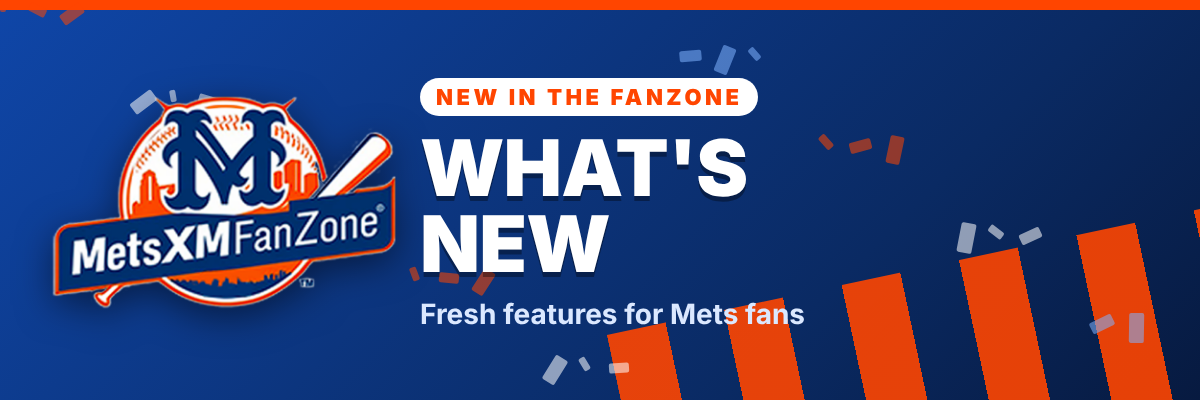
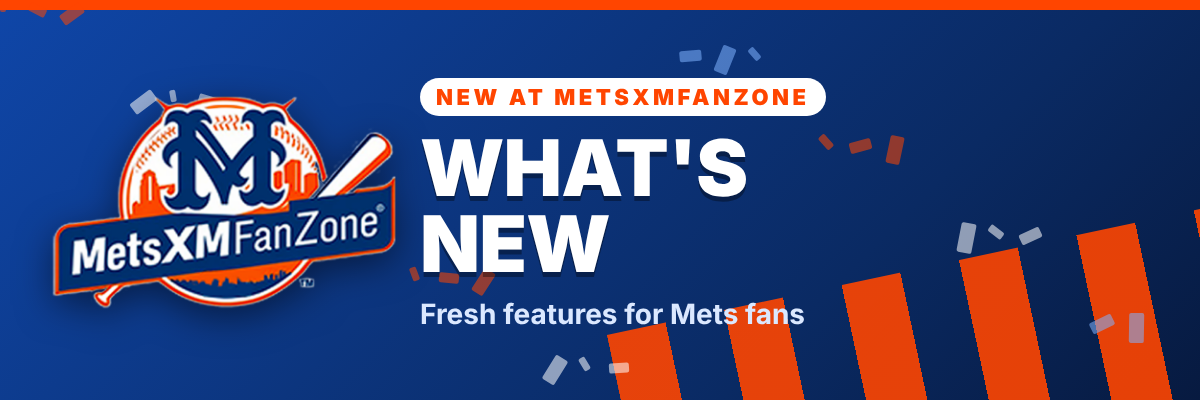
Newsletters: say MetsXMFanZone instead of the FanZone
Claude-Session: https://claude.ai/code/session_015zeFQkBZSqyiHEtssQoaph

Changed region(s): [[0.4008, 0.18, 0.7092, 0.3]]

diff --git a/api/_lib/newsletter-templates.js b/api/_lib/newsletter-templates.js
@@ -118,7 +118,7 @@ ${f.url ? `<div style="margin-top:6px">${link(f.url, f.linkLabel || "Check it ou
 
 /** Welcome email, sent right after signup. */
 export function welcome({ name } = {}) {
-  const hi = name ? `Welcome, ${name}!` : "Welcome to the FanZone!";
+  const hi = name ? `Welcome, ${name}!` : "Welcome to MetsXMFanZone!";
   const perk = (t, d) =>
     `<tr><td style="padding:8px 0;color:#d3dde8;font-size:15px"><span style="color:${ORANGE};font-weight:800">&#9679;</span>&nbsp; <strong style="color:#fff">${esc(t)}</strong> ${esc(d)}</td></tr>`;
   return {
@@ -139,7 +139,7 @@ export function welcome({ name } = {}) {
         `</table>` +
         `<div style="height:10px"></div>` +
         p("Not into an email? Every message has a one-click unsubscribe at the bottom."),
-      cta: { label: "Jump into the FanZone", url: SITE },
+      cta: { label: "Jump into MetsXMFanZone", url: SITE },
       unsubscribe: true,
     }),
   };
